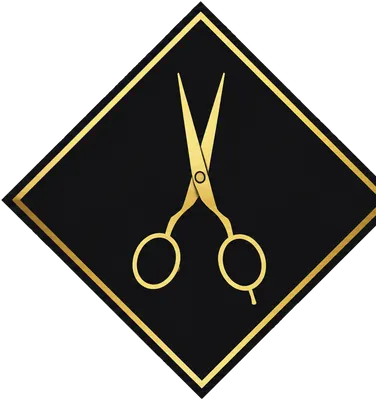
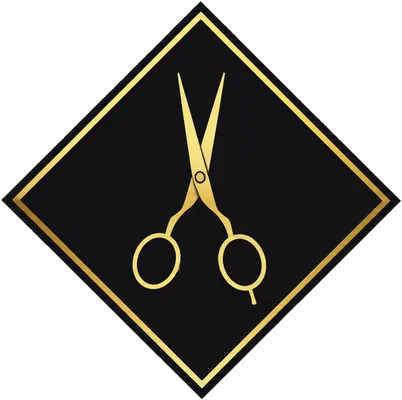
fix(alt-1): stop clipping the diamond mark's right corner
Re-extracted the mark with correct content bounds instead of a
fixed pixel crop that cut off the diamond's right tip.

Changed region(s): [[0.0293, 0.0, 1.0, 1.0]]

diff --git a/index.html b/index.html
@@ -91,7 +91,7 @@
         <a class="brand" href="#top">
           <picture>
             <source srcset="images/upcuts-mark.webp" type="image/webp" />
-            <img class="brand-mark" src="images/upcuts-mark.png" width="376" height="400" alt="" />
+            <img class="brand-mark" src="images/upcuts-mark.png" width="402" height="400" alt="" />
           </picture>
           <span class="brand-text">
             <span class="brand-name">Up Cuts</span>
